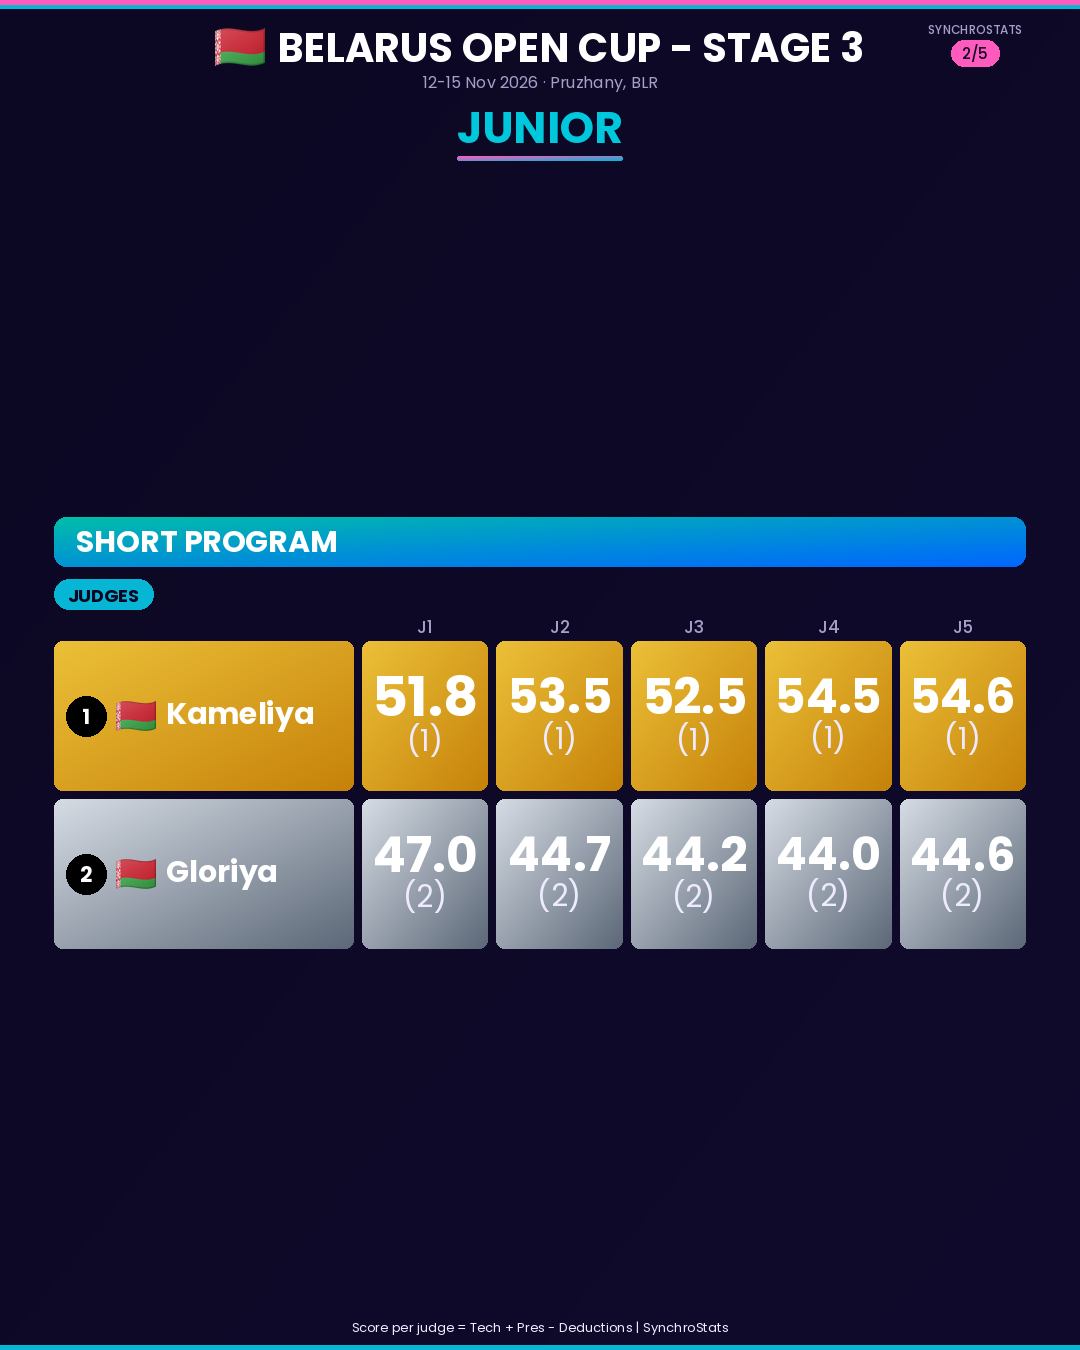
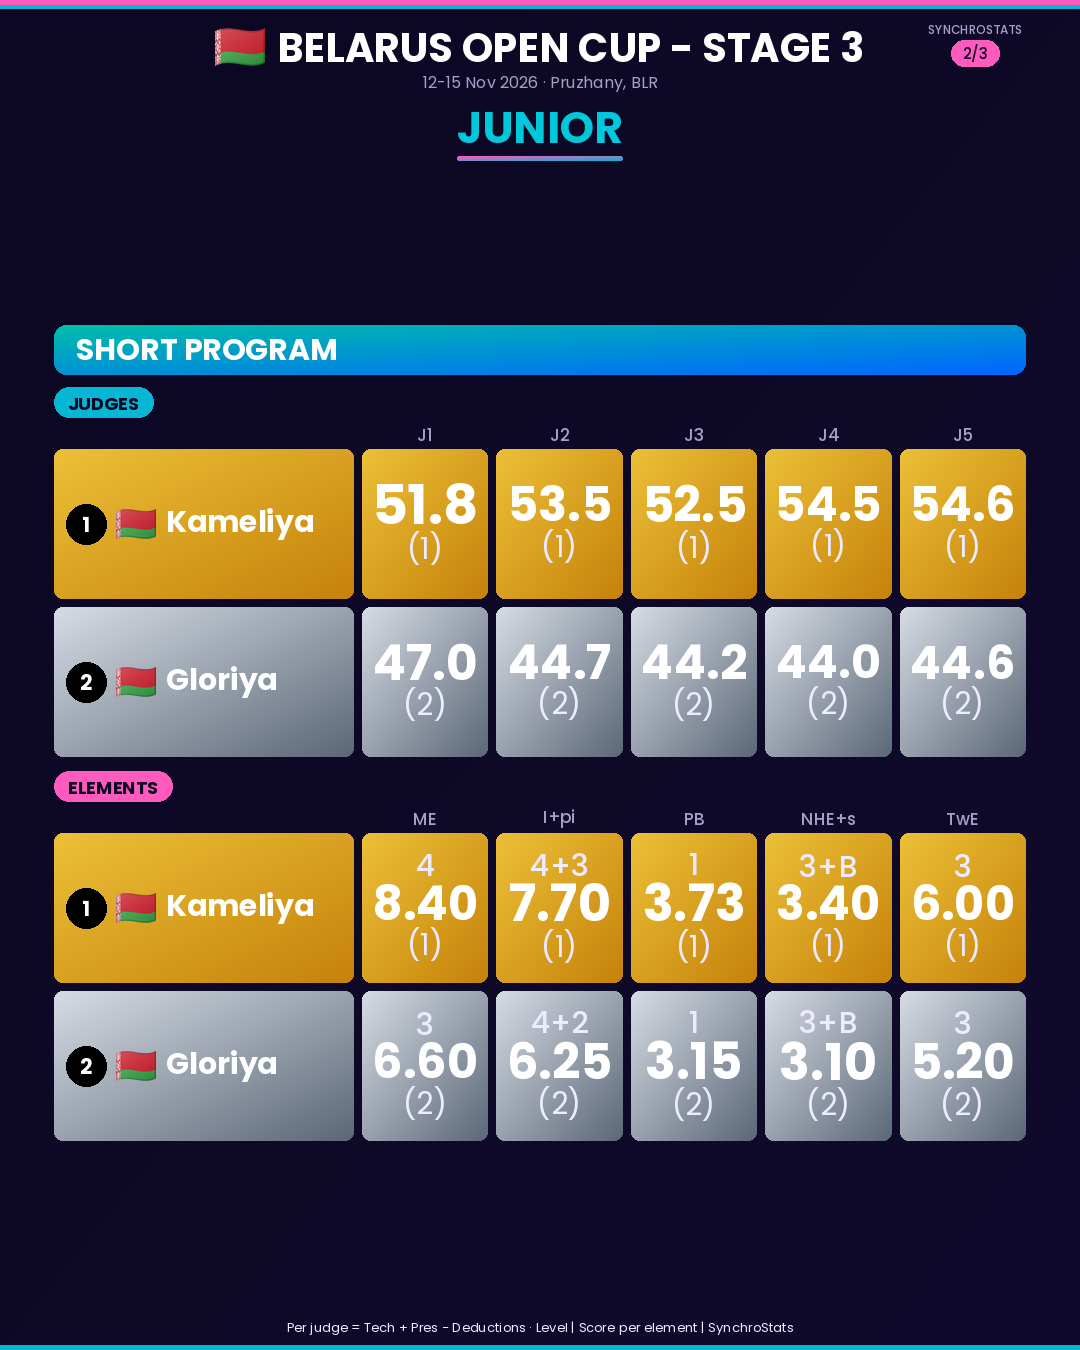
Belarus Stage 3: post régénéré (3 slides compactes) — dépôt direct, robot bloqué
Claude-Session: https://claude.ai/code/session_017cHUGbWMX5UCBStfvDyk2n

diff --git a/posts/belarus-open-cup-stage-3-2026/index.html b/posts/belarus-open-cup-stage-3-2026/index.html
@@ -11,8 +11,8 @@ button+button{background:#ff5abe}pre{white-space:pre-wrap;background:#161036;pad
 .note{background:#3a2a00;padding:10px;border-radius:8px}.verif{background:#161036;padding:10px;border-radius:8px;line-height:2}.verif a{color:#06b6d4;margin-right:12px;font-weight:600}</style></head><body>
 <h1>📸 Belarus Open Cup - Stage 3</h1><p class="verif">🔎 Vérifier les comptes (un appui ouvre Instagram) :<br><a href="https://www.instagram.com/team_gloria_gomel/" target="_blank">@team_gloria_gomel</a></p><section id="belarus-open-cup-stage-3">
 <h2>Belarus Open Cup - Stage 3</h2>
-<div class="imgs"><img src="belarus-open-cup-stage-3_1.png?v=9e42727b16" alt="slide 1" loading="lazy"><img src="belarus-open-cup-stage-3_2.png?v=94a7649a22" alt="slide 2" loading="lazy"><img src="belarus-open-cup-stage-3_3.png?v=2732fd397d" alt="slide 3" loading="lazy"><img src="belarus-open-cup-stage-3_4.png?v=c87fa8257f" alt="slide 4" loading="lazy"><img src="belarus-open-cup-stage-3_5.png?v=a1525d1e1f" alt="slide 5" loading="lazy"></div>
-<div class="btns"><button onclick='partager([["belarus-open-cup-stage-3_1.png?v=9e42727b16", "belarus-open-cup-stage-3_1.png"], ["belarus-open-cup-stage-3_2.png?v=94a7649a22", "belarus-open-cup-stage-3_2.png"], ["belarus-open-cup-stage-3_3.png?v=2732fd397d", "belarus-open-cup-stage-3_3.png"], ["belarus-open-cup-stage-3_4.png?v=c87fa8257f", "belarus-open-cup-stage-3_4.png"], ["belarus-open-cup-stage-3_5.png?v=a1525d1e1f", "belarus-open-cup-stage-3_5.png"]], this)'>📥 Enregistrer les 5 images</button>
+<div class="imgs"><img src="belarus-open-cup-stage-3_1.png?v=ee655f7812" alt="slide 1" loading="lazy"><img src="belarus-open-cup-stage-3_2.png?v=b23ef81f06" alt="slide 2" loading="lazy"><img src="belarus-open-cup-stage-3_3.png?v=c9f8e298c9" alt="slide 3" loading="lazy"></div>
+<div class="btns"><button onclick='partager([["belarus-open-cup-stage-3_1.png?v=ee655f7812", "belarus-open-cup-stage-3_1.png"], ["belarus-open-cup-stage-3_2.png?v=b23ef81f06", "belarus-open-cup-stage-3_2.png"], ["belarus-open-cup-stage-3_3.png?v=c9f8e298c9", "belarus-open-cup-stage-3_3.png"]], this)'>📥 Enregistrer les 3 images</button>
 <button onclick="copier('cap0', this)">📋 Copier la légende</button></div>
 <pre id="cap0">📍 Belarus Open Cup - Stage 3 (12-15 Nov) 🇧🇾
 
